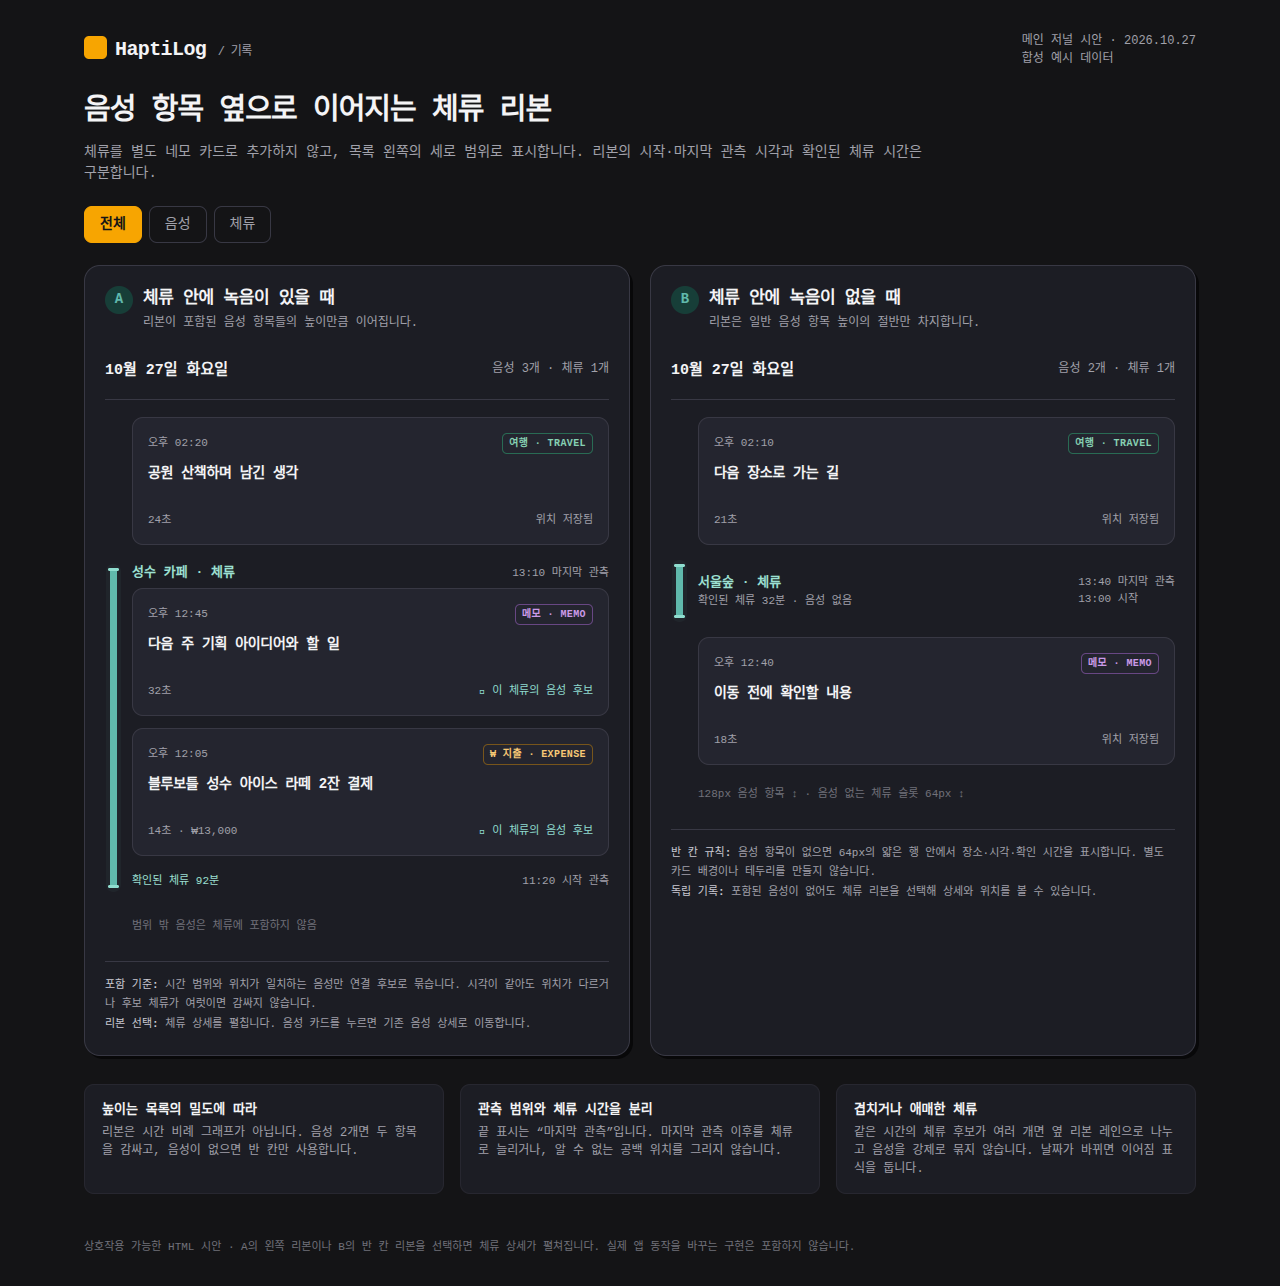
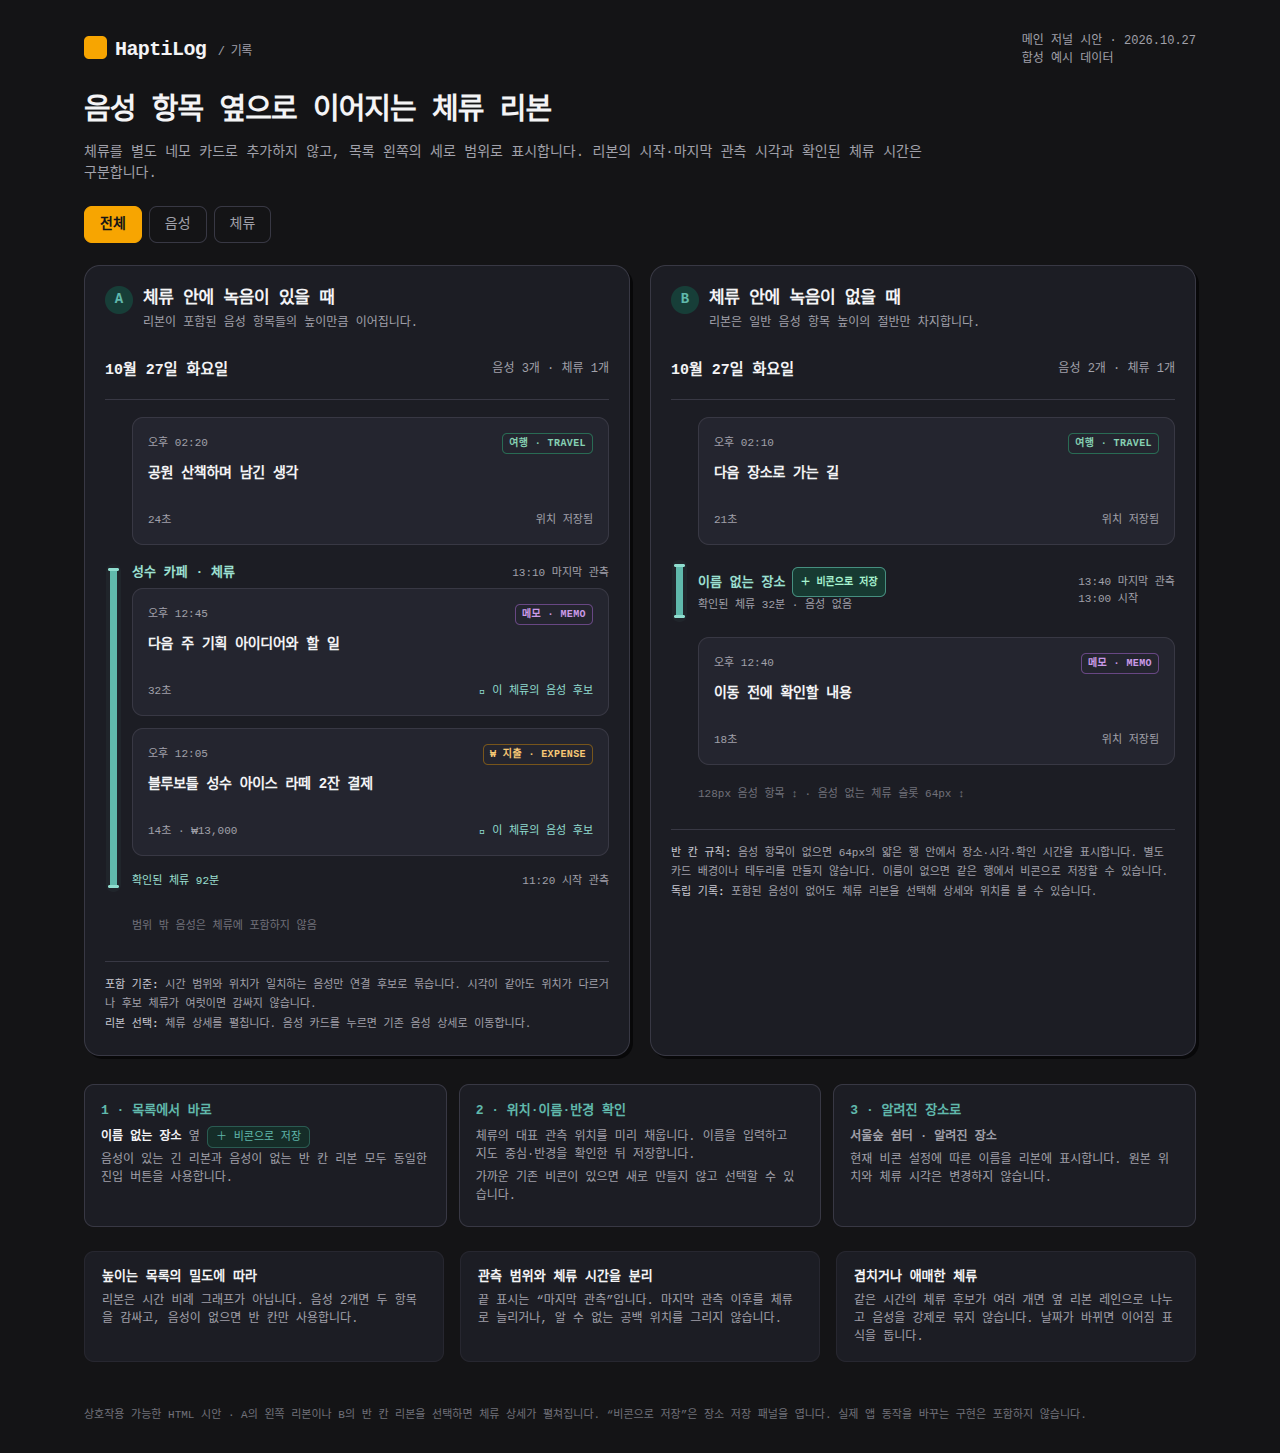
docs: add direct beacon save flow to stay ribbon mockup

diff --git a/docs/design/concepts/2026-10-27-stay-ribbons/index.html b/docs/design/concepts/2026-10-27-stay-ribbons/index.html
@@ -1,6 +1,8 @@
 <!doctype html><html lang="ko"><meta charset="utf-8"><meta name="viewport" content="width=device-width,initial-scale=1"><title>HaptiLog · 메인 기록 세로 체류 리본 시안</title>
 <style>
 *{box-sizing:border-box}body{margin:0;background:#141416;color:#f4f4f6;font-family:system-ui,-apple-system,'Noto Sans CJK KR',sans-serif;font-size:14px;line-height:1.5}button{font:inherit;color:inherit}header{max-width:1160px;margin:auto;padding:32px 24px 22px;display:flex;justify-content:space-between;align-items:center}.brand{font-size:20px;font-weight:800;letter-spacing:-.6px}.brand i{display:inline-block;width:23px;height:23px;background:#f7a501;border-radius:5px;vertical-align:-4px;margin-right:8px}.meta{color:#a1a1aa;font-size:12px}.intro{max-width:1160px;margin:auto;padding:0 24px 22px}h1{font-size:29px;letter-spacing:-1px;margin:0 0 8px}.intro p{color:#a1a1aa;margin:0;max-width:840px}.switch{display:flex;gap:7px;margin:22px 0 0}.switch span{padding:7px 15px;border:1px solid #383844;border-radius:8px;color:#a1a1aa}.switch span:first-child{color:#141416;background:#f7a501;border-color:#f7a501;font-weight:700}.board{max-width:1160px;margin:auto;padding:0 24px 28px;display:grid;grid-template-columns:1fr 1fr;gap:20px}.case{background:#1c1d24;border:1px solid #383844;border-radius:16px;padding:20px;box-shadow:3px 3px #080809}.case-heading{display:flex;gap:10px;align-items:start;margin-bottom:16px}.num{color:#60b9ac;background:#173e38;width:28px;height:28px;border-radius:50%;display:grid;place-items:center;font-weight:700;flex:none}h2{font-size:17px;letter-spacing:-.4px;margin:0 0 3px}.case-heading p{font-size:12px;color:#a1a1aa;margin:0}.day{font-size:15px;font-weight:750;padding:12px 0 16px;border-bottom:1px solid #383844;margin-bottom:17px}.day span{font-size:12px;font-weight:400;color:#a1a1aa;float:right}.feed{position:relative}.group{position:relative;padding:0 0 0 27px;margin:0 0 14px}.ribbon{position:absolute;left:5px;top:9px;bottom:9px;width:7px;background:#60b9ac;border-radius:5px;box-shadow:0 0 0 4px #60b9ac0d}.ribbon:before,.ribbon:after{content:'';position:absolute;width:11px;height:3px;left:-2px;background:#8fddcf;border-radius:3px}.ribbon:before{top:0}.ribbon:after{bottom:0}.bound{display:flex;align-items:center;justify-content:space-between;gap:4px;font-size:11px;min-height:29px;color:#9ce0d2;font-variant-numeric:tabular-nums}.bound strong{font-size:13px;font-weight:650}.bound time{color:#a1a1aa}.bound.end{padding:3px 0 5px}.voice{background:#24252f;border:1px solid #383844;border-radius:11px;min-height:128px;height:128px;display:flex;flex-direction:column;padding:15px;margin-bottom:12px;position:relative}.voice:last-child{margin-bottom:0}.voice .top{display:flex;justify-content:space-between;gap:6px;align-items:center;color:#a1a1aa;font-size:11px}.tag{font-size:10px;font-weight:650;letter-spacing:.4px;border:1px solid #77551b;color:#f7c875;border-radius:5px;padding:2px 6px}.tag.memo{border-color:#684784;color:#cc9be9}.tag.travel{border-color:#296b54;color:#86d1b3}.voice h3{font-size:14px;margin:10px 0;letter-spacing:-.3px;line-height:1.4}.voice .bottom{margin-top:auto;display:flex;justify-content:space-between;color:#a1a1aa;font-size:11px}.candidate{color:#8fddcf}.outside{padding-left:27px;margin-bottom:14px}.outside .voice{margin:0}.empty-stay{position:relative;padding-left:27px;height:64px;margin-bottom:14px;display:flex;align-items:center}.empty-stay .ribbon{top:5px;bottom:5px}.empty-copy{width:100%;color:#9ce0d2;display:flex;align-items:center;justify-content:space-between;gap:7px}.empty-copy strong{font-size:13px;font-weight:650}.empty-copy small{display:block;font-size:11px;color:#a1a1aa}.empty-copy time{font-size:11px;white-space:nowrap;color:#a1a1aa}.note{font-size:11px;color:#a1a1aa;border-top:1px solid #383844;padding-top:14px;margin:18px 0 0;line-height:1.8}.note b{color:#c9cad2;font-weight:550}.key{padding-left:27px;font-size:11px;color:#71717a;min-height:32px;display:flex;align-items:center}.selected{border-color:#60b9ac}.selected:after{content:'체류 리본 선택';position:absolute;top:8px;right:8px;color:#9ce0d2;font-size:10px}.legend{max-width:1112px;margin:0 auto 30px;display:grid;grid-template-columns:repeat(3,1fr);gap:16px;padding:0 0 15px}.legend div{padding:15px 17px;border-radius:10px;background:#1c1d24;font-size:12px;color:#a1a1aa;border:1px solid #272730}.legend strong{display:block;color:#f4f4f6;font-size:13px;margin-bottom:5px}.caption{max-width:1112px;margin:0 auto 30px;color:#71717a;font-size:11px}.mini{font-size:11px;color:#60b9ac;border:1px solid #2a5b52;border-radius:6px;padding:4px 8px;background:#152d28}.group button.ribbon-button{padding:0;border:0;cursor:pointer;position:absolute;left:-3px;top:0;bottom:0;width:24px;background:transparent;border-radius:8px;z-index:2}.group button:focus-visible,.empty-stay:focus-visible{outline:2px solid #f7a501;outline-offset:2px}.group[data-selected="true"] .ribbon{background:#a7f3d0;box-shadow:0 0 0 5px #60b9ac24}.inspector{display:none;padding:12px 14px;background:#152b27;border:1px solid #28574d;border-radius:9px;color:#b6ddd4;font-size:12px;margin:8px 0 14px 27px}.inspector.open{display:block}.inspector p{margin:4px 0;color:#a1a1aa}body[data-shot="mobile"] header{padding-top:22px}body[data-shot="mobile"] .meta{display:none}@media(max-width:750px){header{padding:20px 16px 16px}.intro{padding:0 16px 18px}h1{font-size:23px}.intro p{font-size:12px}.board{grid-template-columns:1fr;padding:0 12px 22px;gap:22px}.case{padding:16px 14px}.case-heading p{font-size:11px}.meta{max-width:130px;text-align:right}.legend{margin:0 12px 22px;grid-template-columns:1fr;gap:8px}.caption{margin:0 16px 24px}.voice{padding:13px;min-height:128px}.voice h3{font-size:13px}.bound strong{font-size:12px}.empty-copy strong{font-size:12px}.day span{float:none;display:block;margin-top:3px}.empty-copy time{font-size:10px}.brand{font-size:18px}}
+
+.beacon-action{border:1px solid #468f80;background:#173a32;color:#a7f3d0;border-radius:6px;padding:5px 7px;font-size:10px;font-weight:650;white-space:nowrap;cursor:pointer;min-height:30px}.empty-title{display:flex;align-items:center;gap:7px}.empty-stay button.ribbon-button{padding:0;border:0;cursor:pointer;position:absolute;left:-3px;top:0;bottom:0;width:24px;background:transparent;border-radius:8px;z-index:2}.beacon-sheet{width:min(460px,calc(100vw - 24px));padding:22px;border:1px solid #4a4a5a;border-radius:16px;background:#1c1d24;color:#f4f4f6;max-height:92dvh;overflow:auto}.beacon-sheet::backdrop{background:#000b;backdrop-filter:blur(2px)}.sheet-title{display:flex;justify-content:space-between;align-items:start;gap:12px}.sheet-title h2{font-size:21px;margin:4px 0}.kicker{color:#60b9ac;font-size:11px;letter-spacing:1px}.x-close{border:0;background:transparent;color:#a1a1aa;font-size:21px;cursor:pointer}.sheet-desc{font-size:12px;color:#a1a1aa;margin:7px 0 16px}.map-preview{background:#252b2e;border:1px solid #383844;border-radius:10px;overflow:hidden;position:relative}.map-preview svg{display:block;width:100%;height:156px}.map-tag{position:absolute;left:10px;bottom:9px;font-size:10px;color:#c3cbc8;padding:3px 6px;background:#141416cc;border-radius:4px}.field{display:block;margin:14px 0;color:#c3c4cc;font-size:12px}.field input[type=text]{display:block;width:100%;margin-top:6px;background:#24252f;border:1px solid #4a4a5a;color:#f4f4f6;padding:12px;border-radius:8px;font:inherit;font-size:14px}.field input[type=range]{display:block;width:100%;margin-top:10px;accent-color:#60b9ac}.radius-label{display:flex;justify-content:space-between;gap:10px}.field output{color:#9ce0d2;font-size:14px}.hint{font-size:11px;color:#a1a1aa;margin:7px 0}.nearby{font-size:12px;margin:14px 0;color:#a1a1aa}.nearby button{display:block;margin:8px 0;border:1px solid #383844;background:#24252f;border-radius:6px;padding:8px;color:#c9cad2;cursor:pointer}.sheet-actions{display:flex;gap:10px;border-top:1px solid #383844;padding-top:16px;margin-top:18px}.sheet-actions button{padding:11px 14px;border-radius:8px;font-size:13px;cursor:pointer}.cancel{background:transparent;border:1px solid #4a4a5a}.save-beacon{flex:1;background:#60b9ac;border:1px solid #60b9ac;color:#10221e;font-weight:750}.sample-note{font-size:10px;color:#71717a;margin:12px 0 0}.flow-strip{max-width:1112px;margin:0 auto 24px;display:grid;grid-template-columns:repeat(3,1fr);gap:12px}.flow-strip section{border:1px solid #383844;border-radius:10px;padding:16px;background:#1c1d24}.flow-strip h3{font-size:13px;margin:0 0 8px;color:#60b9ac}.flow-strip p{font-size:12px;color:#a1a1aa;margin:5px 0}.known-label{color:#9ce0d2;font-weight:650}.beacon-toast{position:fixed;bottom:20px;left:50%;transform:translateX(-50%);border:1px solid #468f80;background:#173a32;padding:12px 18px;border-radius:10px;font-size:12px;z-index:10;max-width:calc(100vw - 24px);width:max-content}.beacon-toast[hidden]{display:none}@media(max-width:750px){.flow-strip{margin:0 12px 22px;grid-template-columns:1fr}.beacon-sheet{padding:18px}.empty-copy{gap:5px}.empty-title{gap:5px}.beacon-action{padding:5px;font-size:9px}.empty-title strong{font-size:11px}.empty-copy time{font-size:9px}.sheet-title h2{font-size:20px}}
 </style>
 <header><div class="brand"><i></i>HaptiLog <span style="font-weight:400;color:#a1a1aa;font-size:12px">/ 기록</span></div><div class="meta">메인 저널 시안 · 2026.10.27<br>합성 예시 데이터</div></header>
 <section class="intro"><h1>음성 항목 옆으로 이어지는 체류 리본</h1><p>체류를 별도 네모 카드로 추가하지 않고, 목록 왼쪽의 세로 범위로 표시합니다. 리본의 시작·마지막 관측 시각과 확인된 체류 시간은 구분합니다.</p><div class="switch"><span>전체</span><span>음성</span><span>체류</span></div></section>
@@ -16,12 +18,24 @@
 <p class="note"><b>포함 기준:</b> 시간 범위와 위치가 일치하는 음성만 연결 후보로 묶습니다. 시각이 같아도 위치가 다르거나 후보 체류가 여럿이면 감싸지 않습니다.<br><b>리본 선택:</b> 체류 상세를 펼칩니다. 음성 카드를 누르면 기존 음성 상세로 이동합니다.</p></section>
 <section class="case" id="without-voice"><div class="case-heading"><span class="num">B</span><div><h2>체류 안에 녹음이 없을 때</h2><p>리본은 일반 음성 항목 높이의 절반만 차지합니다.</p></div></div><div class="day">10월 27일 화요일 <span>음성 2개 · 체류 1개</span></div>
 <div class="feed"><div class="outside"><article class="voice"><div class="top"><time>오후 02:10</time><span class="tag travel">여행 · TRAVEL</span></div><h3>다음 장소로 가는 길</h3><div class="bottom"><span>21초</span><span>위치 저장됨</span></div></article></div>
-<div class="empty-stay" tabindex="0" role="button" aria-label="공원 체류 상세, 포함된 음성 없음" aria-expanded="false" onclick="const d=document.getElementById('detail-b');d.classList.toggle('open');this.setAttribute('aria-expanded',String(d.classList.contains('open')))" onkeydown="if(event.key==='Enter'||event.key===' '){event.preventDefault();this.click()}"><div class="ribbon"></div><div class="empty-copy"><div><strong>서울숲 · 체류</strong><small>확인된 체류 32분 · 음성 없음</small></div><time>13:40 마지막 관측<br>13:00 시작</time></div></div>
-<div id="detail-b" class="inspector"><strong>서울숲 · 체류 관측 범위 13:00–13:40</strong><p>확인된 체류 32분. 연결할 음성 후보가 없습니다. 음성이 없어도 체류는 독립된 기록으로 남습니다.</p></div>
+<div class="empty-stay"><button class="ribbon-button" type="button" aria-label="이름 없는 장소 체류 상세, 포함된 음성 없음" aria-expanded="false" onclick="const d=document.getElementById('detail-b');d.classList.toggle('open');this.setAttribute('aria-expanded',String(d.classList.contains('open')))"></button><div class="ribbon"></div><div class="empty-copy"><div><div class="empty-title"><strong id="unnamed-label">이름 없는 장소</strong><button class="beacon-action" type="button" id="beacon-entry" onclick="openBeacon(this)">＋ 비콘으로 저장</button></div><small>확인된 체류 32분 · 음성 없음</small></div><time>13:40 마지막 관측<br>13:00 시작</time></div></div>
+<div id="detail-b" class="inspector"><strong id="stay-detail-place">이름 없는 장소 · 체류 관측 범위 13:00–13:40</strong><p>확인된 체류 32분. 연결할 음성 후보가 없습니다. 음성이 없어도 체류는 독립된 기록으로 남습니다.</p></div>
 <div class="outside"><article class="voice"><div class="top"><time>오후 12:40</time><span class="tag memo">메모 · MEMO</span></div><h3>이동 전에 확인할 내용</h3><div class="bottom"><span>18초</span><span>위치 저장됨</span></div></article></div>
 <div class="key">128px 음성 항목 ↕ · 음성 없는 체류 슬롯 64px ↕</div></div>
-<p class="note"><b>반 칸 규칙:</b> 음성 항목이 없으면 64px의 얇은 행 안에서 장소·시각·확인 시간을 표시합니다. 별도 카드 배경이나 테두리를 만들지 않습니다.<br><b>독립 기록:</b> 포함된 음성이 없어도 체류 리본을 선택해 상세와 위치를 볼 수 있습니다.</p></section>
+<p class="note"><b>반 칸 규칙:</b> 음성 항목이 없으면 64px의 얇은 행 안에서 장소·시각·확인 시간을 표시합니다. 별도 카드 배경이나 테두리를 만들지 않습니다. 이름이 없으면 같은 행에서 비콘으로 저장할 수 있습니다.<br><b>독립 기록:</b> 포함된 음성이 없어도 체류 리본을 선택해 상세와 위치를 볼 수 있습니다.</p></section>
 </main>
+<section class="flow-strip" aria-label="이름 없는 장소를 비콘으로 저장하는 흐름"><section><h3>1 · 목록에서 바로</h3><p><strong style="color:#f4f4f6">이름 없는 장소</strong> 옆 <span class="mini">＋ 비콘으로 저장</span></p><p>음성이 있는 긴 리본과 음성이 없는 반 칸 리본 모두 동일한 진입 버튼을 사용합니다.</p></section><section><h3>2 · 위치·이름·반경 확인</h3><p>체류의 대표 관측 위치를 미리 채웁니다. 이름을 입력하고 지도 중심·반경을 확인한 뒤 저장합니다.</p><p>가까운 기존 비콘이 있으면 새로 만들지 않고 선택할 수 있습니다.</p></section><section><h3>3 · 알려진 장소로</h3><p class="known-label">서울숲 쉼터 · 알려진 장소</p><p>현재 비콘 설정에 따른 이름을 리본에 표시합니다. 원본 위치와 체류 시각은 변경하지 않습니다.</p></section></section>
 <section class="legend"><div><strong>높이는 목록의 밀도에 따라</strong>리본은 시간 비례 그래프가 아닙니다. 음성 2개면 두 항목을 감싸고, 음성이 없으면 반 칸만 사용합니다.</div><div><strong>관측 범위와 체류 시간을 분리</strong>끝 표시는 “마지막 관측”입니다. 마지막 관측 이후를 체류로 늘리거나, 알 수 없는 공백 위치를 그리지 않습니다.</div><div><strong>겹치거나 애매한 체류</strong>같은 시간의 체류 후보가 여러 개면 옆 리본 레인으로 나누고 음성을 강제로 묶지 않습니다. 날짜가 바뀌면 이어짐 표식을 둡니다.</div></section>
-<p class="caption">상호작용 가능한 HTML 시안 · A의 왼쪽 리본이나 B의 반 칸 리본을 선택하면 체류 상세가 펼쳐집니다. 실제 앱 동작을 바꾸는 구현은 포함하지 않습니다.</p>
+<p class="caption">상호작용 가능한 HTML 시안 · A의 왼쪽 리본이나 B의 반 칸 리본을 선택하면 체류 상세가 펼쳐집니다. “비콘으로 저장”은 장소 저장 패널을 엽니다. 실제 앱 동작을 바꾸는 구현은 포함하지 않습니다.</p>
+<dialog id="beacon-dialog" class="beacon-sheet" aria-labelledby="beacon-heading" onclose="document.getElementById('beacon-entry').focus()"><form id="beacon-form" onsubmit="saveBeacon(event)"><div class="sheet-title"><div><span class="kicker">KNOWN PLACE</span><h2 id="beacon-heading">비콘으로 저장</h2></div><button class="x-close" type="button" aria-label="닫기" onclick="this.closest('dialog').close()">×</button></div><p class="sheet-desc">이름 없는 장소를 알려진 장소로 저장합니다.<br>체류의 대표 위치를 가져왔어요. 중심과 반경을 확인해 주세요.</p>
+<div class="map-preview" aria-label="비콘 중심과 반경을 확인하는 지도 시안"><svg viewBox="0 0 420 156" role="img" aria-label="대표 관측 위치를 중심으로 한 반경 미리보기"><rect width="420" height="156" fill="#242e2b"/><path d="M0 34H420M0 116H420M85 0V156M318 0V156" stroke="#42514c" stroke-width="16"/><path d="M0 34H420M0 116H420M85 0V156M318 0V156" stroke="#5b6762" stroke-width="1"/><rect x="140" y="43" width="150" height="66" rx="12" fill="#304c3d"/><circle id="beacon-radius-ring" cx="210" cy="78" r="48" fill="#60b9ac22" stroke="#60b9ac" stroke-width="2" stroke-dasharray="4 4"/><circle cx="210" cy="78" r="5" fill="#a7f3d0" stroke="#fff" stroke-width="2"/></svg><span class="map-tag">체류 대표 위치 · ±24m · 지도 시안</span></div>
+<label class="field">비콘 이름<input id="beacon-name" name="name" type="text" maxlength="40" required placeholder="예: 회사, 자주 가는 카페" autocomplete="off"></label>
+<label class="field"><span class="radius-label"><span>반경</span><output id="beacon-radius-value">200m</output></span><input id="beacon-radius" name="radius" type="range" min="150" max="2000" step="50" value="200" oninput="document.getElementById('beacon-radius-value').value=this.value+'m';document.getElementById('beacon-radius-ring').setAttribute('r',Math.min(67,36+Number(this.value)/17))"></label>
+<p class="hint">반경은 장소의 범위입니다. 관측 정확도 ±24m와는 다른 값입니다.</p>
+<details class="nearby"><summary>근처에 저장한 비콘이 있어요 · 1개</summary><button type="button" onclick="document.getElementById('beacon-name').value='서울숲 쉼터';document.getElementById('beacon-save').textContent='기존 비콘 사용';document.getElementById('beacon-form').dataset.existing='true'">서울숲 쉼터 · 150m · 기존 비콘 사용</button></details>
+<p class="hint">내 비콘 3 / 20개 · 현재 장소 설정을 저장합니다.<br>과거 관측 위치와 체류 시간은 그대로 유지됩니다.</p><div class="sheet-actions"><button type="button" class="cancel" onclick="this.closest('dialog').close()">취소</button><button id="beacon-save" class="save-beacon" type="submit">비콘 저장</button></div><p class="sample-note">인터랙티브 시안입니다. 실제 계정이나 서버에는 저장하지 않습니다.</p></form></dialog><div id="beacon-toast" class="beacon-toast" role="status" hidden></div>
+<script>
+function openBeacon(button){document.getElementById('beacon-toast').hidden=true;document.getElementById('beacon-dialog').showModal()}
+function saveBeacon(event){event.preventDefault();const name=document.getElementById('beacon-name').value.trim();if(!name){document.getElementById('beacon-name').focus();return}document.getElementById('unnamed-label').textContent=name;document.getElementById('beacon-entry').textContent='비콘 수정';document.getElementById('stay-detail-place').textContent=name+' · 현재 비콘 설정 기준 · 체류 관측 범위 13:00–13:40';document.getElementById('beacon-dialog').close();const toast=document.getElementById('beacon-toast');toast.textContent='알려진 장소로 저장했습니다 · 이 시안에서만 적용';toast.hidden=false}
+</script>
 </html>

diff --git a/docs/design/concepts/2026-10-27-stay-ribbons/README.md b/docs/design/concepts/2026-10-27-stay-ribbons/README.md
@@ -24,3 +24,29 @@ Open `index.html` to interact with ribbon details. `desktop.png` compares the tw
 cases; `mobile.png` shows them at 390px. Rendering checked 128px/64px sizing,
 mobile horizontal containment and keyboard-accessible empty-stay disclosure.
 All recordings and locations in this design are synthetic.
+
+## Unnamed stay → known place (beacon)
+
+An unnamed ribbon exposes **＋ 비콘으로 저장** directly beside its place label,
+including the 64px empty-stay slot. Known ribbons use their current place name
+and offer editing instead of creating a duplicate. The prototype's unnamed
+example is case B; the same entry applies to case A when it is unnamed.
+
+The save sheet starts at the stay's representative observation position, asks for
+a 1–40-character name and a 150–2,000m radius (200m preview default), and distinguishes
+GPS accuracy from the user's chosen place radius. Nearby existing beacons can be
+reused. This is the existing SavedPlace concept with a user-facing beacon label,
+not a Bluetooth device or new background behavior. The existing 20-place limit,
+owner authorization and conflict/draft-preservation rules remain implementation
+requirements.
+
+Save updates the prototype's displayed ribbon name and changes its entry to
+**비콘 수정**. Original coordinates, observation times and confirmed duration are
+not changed; naming is qualified as the current beacon setting. Cancel returns to
+the ribbon. The HTML mockup makes no network writes and explicitly labels the
+save as prototype-only.
+
+`beacon-desktop.png` and `beacon-mobile.png` show the save sheet;
+`beacon-saved-mobile.png` shows the renamed half-row ribbon. Pointer entry,
+name/save/edit/cancel, retained 64px height and mobile horizontal containment
+were verified in the project Chrome session. The map is a schematic preview.
